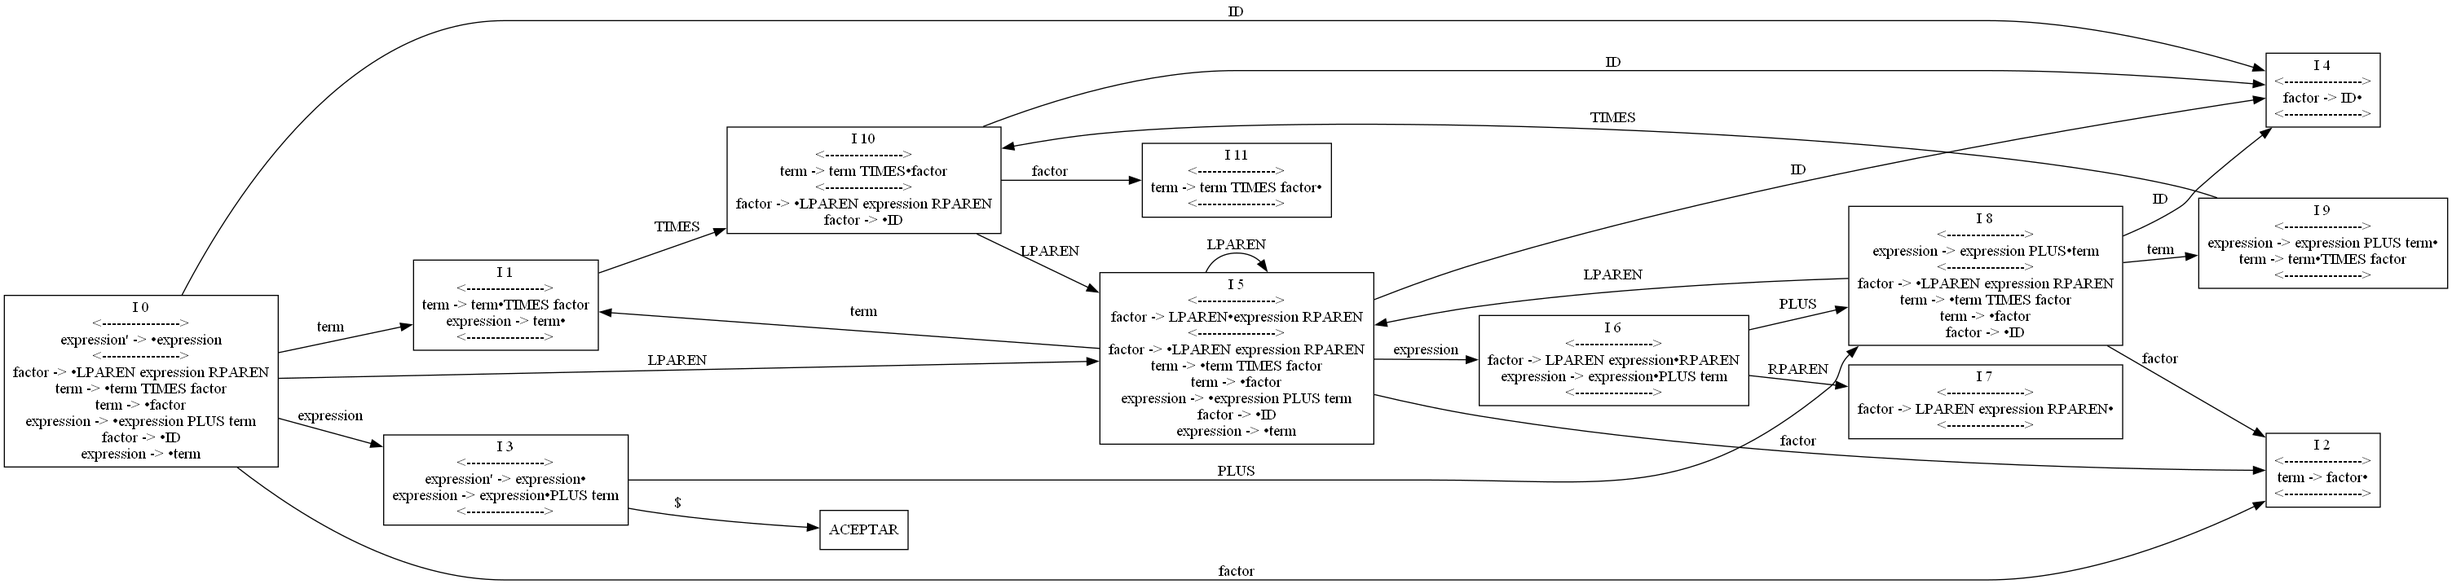
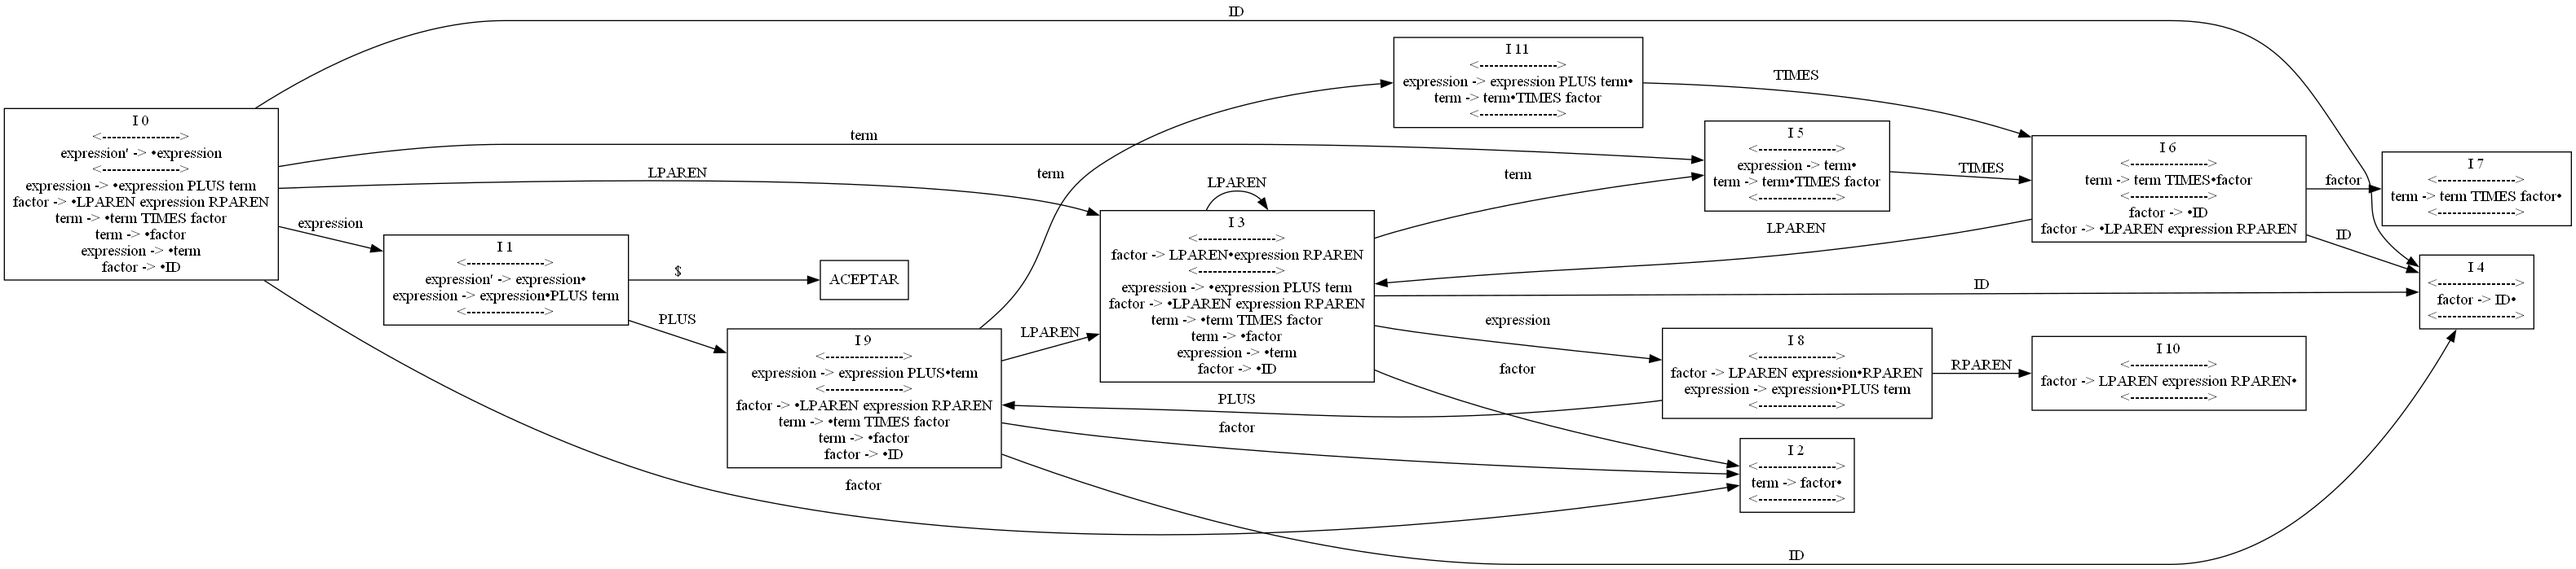
trabajos en lab f

diff --git a/LabF.py b/LabF.py
@@ -1,0 +1,242 @@
+import re
+from LR import coleccion_canonica
+from LL import primeros, siguientes
+from graficar import dibujar_lr0
+
+# toma el nombre del archivo YALP como argumento y devuelve el contenido del archivo como una cadena
+
+
+def leer_yalp(filename):
+    with open(filename, 'r') as file:
+        content = file.read()
+    return content
+
+# toma el contenido del archivo YALP como argumento y devuelve dos secciones separadas de tokens y producciones, eliminando la sección opcional de encabezado
+
+
+def separar_yalp(content):
+    try:
+        sections = content.split('%%')
+        tokens_section = sections[0]
+        productions_section = sections[1]
+        return tokens_section, productions_section
+    except:
+        print("\nNo se encontro el separador '%%' en el archivo yalp.")
+        exit()
+
+# procesa la sección de tokens del archivo YALP y devuelve una lista de tokens definidos en esa sección
+
+
+def procesar_tokens(content):
+    tokens = []
+    lines = content.split('\n')
+    for line in lines:
+        if line.startswith("%token"):
+            line_tokens = line[len("%token"):].strip().split(' ')
+            tokens.extend(line_tokens)
+        if not line.startswith("%token") and not line.startswith("IGNORE") and not line.startswith("/*") and line.strip():
+            print("\nLos tokens no estan bien definidos.")
+            exit()
+    return tokens
+
+# procesa la sección de producciones del archivo YALP y devuelve un diccionario que contiene las reglas de producción
+
+
+def procesar_producciones(content):
+    productions = {}
+    content = re.sub(r'/\*.*?\*/', '', content,
+                     flags=re.DOTALL)  # Eliminar comentarios
+    lines = content.split('\n')
+    current_production = None
+    production_rules = []
+    for line in lines:
+        line = line.strip()
+        if not line:
+            continue
+        if line.endswith(':'):
+            if current_production:
+                productions[current_production] = production_rules
+                production_rules = []
+            current_production = line[:-1]
+        elif line.endswith(';'):
+            line = line[:-1]
+            if line != "":
+                production_rules.append(line)
+            productions[current_production] = production_rules
+            production_rules = []
+            current_production = None
+        else:
+            if (line.startswith('|') or line.startswith('->')) and current_production:
+                line = line.strip().split('|')
+                for item in line:
+                    if item.strip() != "":
+                        production_rules.append(item.strip())
+
+            elif ('|' in line) and current_production:
+                line = line.strip()
+                production_rules.extend(line.split('|'))
+            else:
+                production_rules.append(line)
+    return productions
+
+# procesa el archivo completo
+
+
+def procesar_yalp(filename):
+    content = leer_yalp(filename)
+    tokens_section, productions_section = separar_yalp(content)
+    tokens = procesar_tokens(tokens_section)
+    productions = procesar_producciones(productions_section)
+    return tokens, productions
+
+#  toma el diccionario de producciones y devuelve una versión modificada del mismo diccionario en la que cada regla de producción se ha convertido en una lista de elementos separados por espacio
+
+
+def convert_productions(productions_dict):
+    converted_productions = {}
+    for key, value in productions_dict.items():
+        converted_productions[key] = [rule.split() for rule in value]
+    return converted_productions
+
+# verifica si los tokens del yalp se encuentran en los tokens del lex
+
+
+def same_content(tokens_lex, tokens):
+    return sorted(tokens_lex) == sorted(tokens)
+
+
+archivo = input("Ingrese el nombre del archivo a ejecutar: ")
+
+# Abrir y leer el archivo
+with open(archivo + ".yal", "r") as f:
+    content = f.read()
+
+# Dividir el contenido del archivo en líneas
+lines = content.split("\n")
+
+# Buscar la línea que contiene "rule tokens"
+rule_tokens_index = None
+for i, line in enumerate(lines):
+    if re.match(r"^rule tokens = .*?$", line):
+        rule_tokens_index = i
+        break
+
+# Extraer el contenido de las llaves luego de cada token en las líneas siguientes
+tokens_lex = []
+if rule_tokens_index is not None:
+    for line in lines[rule_tokens_index + 1:]:
+        tokens_lex.extend(re.findall(r"\{\s*(.+?)\s*\}", line))
+
+tokens, productions_dict = procesar_yalp(archivo + '.yalp')
+converted_productions = convert_productions(productions_dict)
+
+if same_content(tokens_lex, tokens):
+    states, transitions = coleccion_canonica(converted_productions)
+
+    # Imprimir estados y transiciones
+    print('\nEstados:')
+    for i, state in enumerate(states):
+        print(f'{i}: {state}')
+
+    print('\nTransiciones:')
+    for transition in transitions:
+        print(transition)
+
+    # Funcion para dibujar el automata lr(0)
+    dibujar_lr0(states, transitions)
+
+    # Funciones Primero y Siguiente
+    print("\nPrimero y Siguiente")
+
+    def convert_productions(productions):
+        converted_productions = {}
+        for key, value in productions.items():
+            converted_productions[key] = [prod.split() for prod in value]
+        return converted_productions
+
+    converted_prod = convert_productions(productions_dict)
+    first = primeros(converted_prod)
+    follow = siguientes(converted_prod, first)
+
+    print("\nConjuntos Primeros:")
+    for non_terminal, first_set in first.items():
+        print(f"{non_terminal}: {first_set}")
+
+    print("\nConjuntos Siguientes:")
+    for non_terminal, follow_set in follow.items():
+        print(f"{non_terminal}: {follow_set}")
+
+    print("\nstates: ", states)
+    print("\ntransitions: ", transitions)
+
+    print("\nproductions: ", converted_productions)
+
+    # LAB F DESDE AQUI
+
+    def generate_slr_tables(states, transitions, productions):
+        # Inicializar ACTION y GOTO tables
+        action_table = {}
+        goto_table = {}
+
+        # Convertir el conjunto de estados en una lista ordenada
+        ordered_states = sorted(states)
+
+        for state in ordered_states:
+            action_table[state] = {}
+            goto_table[state] = {}
+
+        # Rellenar las tablas ACTION y GOTO
+        for state in states:
+            for item in state:
+                production = item.production
+                position = item.position
+
+                # Caso 1: Item completo (punto al final)
+                if position == len(production[1]):
+                    if production[0] == 'expression' and item.derived:
+                        # Caso especial para la producción inicial
+                        action_table[state]['$'] = 'accept'
+                    else:
+                        # Reducción (R)
+                        follow_symbols = siguientes(productions, production[0])
+                        for symbol in follow_symbols:
+                            action_table[state][symbol] = 'R' + \
+                                str(productions.index(production))
+
+                else:
+                    symbol = production[1][position]
+
+                    # Caso 2: Transición a estado con GOTO (SHIFT)
+                    if (state, symbol) in transitions:
+                        next_state = transitions[(state, symbol)]
+                        goto_table[state][symbol] = next_state
+
+                    # Caso 3: Desplazamiento (SHIFT)
+                    elif symbol.isalpha() or symbol.isnumeric():
+                        next_state = state + 1  # Suponiendo que los estados se numeran secuencialmente
+                        action_table[state][symbol] = 'S' + str(next_state)
+
+        return action_table, goto_table
+
+    # Obtener las tablas de análisis SLR
+    action_table, goto_table = generate_slr_tables(
+        states, transitions, converted_productions)
+
+    # Imprimir las tablas
+    print("ACTION table:")
+    for state, actions in action_table.items():
+        print(state)
+        for symbol, action in actions.items():
+            print(f"{symbol}: {action}")
+        print()
+
+    print("GOTO table:")
+    for state, gotos in goto_table.items():
+        print(state)
+        for symbol, goto in gotos.items():
+            print(f"{symbol}: {goto}")
+        print()
+
+
+else:
+    print("Los Tokens del yalp no son iguales a los tokens del lex")
